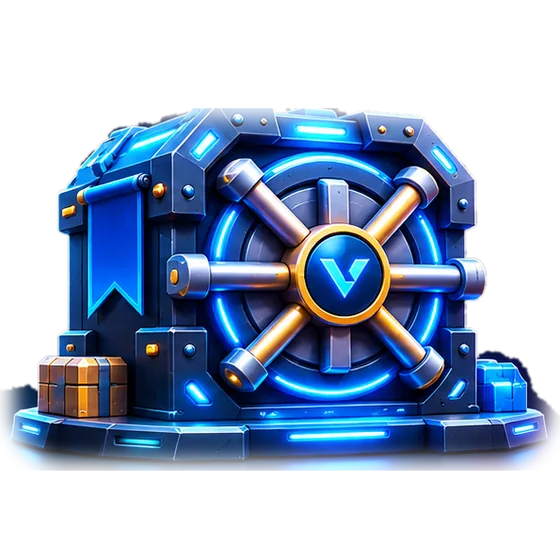
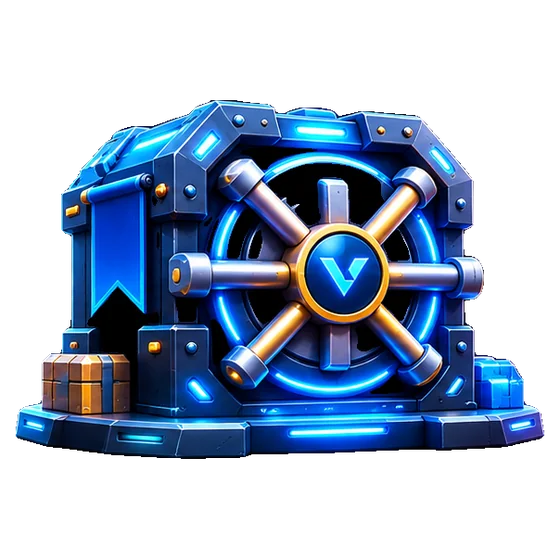
Clean vault cut-outs, light mode toggle, NEAR stack section, phone layouts that fit
- Vault art re-cut with a segmentation model (rembg isnet) plus hole filling: clean edges on
  black, colour and white
- Light/dark toggle (dark by default, remembered, applied before first paint) on the landing page
  and in the game; light palette is the graphite scale inverted, with a darker gold for money
- Landing: 'Every coin moves on NEAR' section listing the NEAR technology used; vault cards become a
  2x2 grid under Veyra on phones; the move ladder and the money flow fit a 320px screen
- Lobby vault cards fit phones; no element scrolls sideways at 320, 390, 600, 1024 or 1440px

Claude-Session: https://claude.ai/code/session_018sJarviuXH1cTFCCWjzHtd

Changed region(s): [[0.0, 0.1518, 1.0, 0.85]]

diff --git a/apps/web/src/game/game.css b/apps/web/src/game/game.css
@@ -184,14 +184,19 @@
   .arena-top .near-badge .label-long { display: none; }
   .feature { grid-template-columns: 1fr; text-align: left; padding: var(--s-5); }
   .feature .emblem { width: 140px; height: 140px; justify-self: center; order: -1; }
-  .vault-row { grid-template-columns: repeat(5, 76%); }
+  .vault-row { grid-template-columns: repeat(2, minmax(0, 1fr)); overflow: visible; gap: var(--s-3); }
+  .vault-row > :first-child { grid-column: 1 / -1; }
+  .vault-card { min-height: 0; padding: var(--s-3); }
+  .vault-card .art { height: 120px; }
+  .vault-card .art .vault-art { width: 120px !important; height: 120px !important; }
+  .vault-card .tag { display: none; }
   .panel { padding: var(--s-4); border-radius: 22px; }
   .stage { padding: var(--s-4); }
   .shield-row { grid-template-columns: repeat(2, minmax(0, 1fr)); }
   .faceoff .emblem, .faceoff .avatar { width: 104px; height: 104px; }
   .podium { grid-template-columns: 1fr; }
   .podium .step.first { order: -1; }
-  .arena-bottom { display: grid; grid-template-columns: repeat(4, 1fr); position: fixed; left: 0; right: 0; bottom: 0; z-index: var(--z-nav); height: calc(var(--bottom-nav) + env(safe-area-inset-bottom)); padding-bottom: env(safe-area-inset-bottom); background: rgb(14 14 16 / 0.94); backdrop-filter: blur(12px); border-top: 1px solid var(--line); }
+  .arena-bottom { display: grid; grid-template-columns: repeat(4, 1fr); position: fixed; left: 0; right: 0; bottom: 0; z-index: var(--z-nav); height: calc(var(--bottom-nav) + env(safe-area-inset-bottom)); padding-bottom: env(safe-area-inset-bottom); background: color-mix(in srgb, var(--bg) 94%, transparent); backdrop-filter: blur(12px); border-top: 1px solid var(--line); }
   .arena-bottom a { display: flex; flex-direction: column; align-items: center; justify-content: center; gap: 3px; color: var(--fg-3); text-decoration: none; font-size: 11px; min-height: var(--bottom-nav); }
   .arena-bottom a[aria-current="page"] { color: var(--fg); }
   .arena-bottom a[aria-current="page"] svg { color: var(--gold); }
@@ -443,7 +448,7 @@ button.explain.shield-explain:hover .shield-token { border-color: var(--line-2);
   .next-step { padding: 8px; gap: var(--s-2); }
   .sheet { top: auto; left: 0; right: 0; bottom: 0; width: 100%; max-height: 92dvh; border-radius: 26px 26px 0 0; padding: var(--s-5) var(--s-4) calc(var(--s-5) + env(safe-area-inset-bottom)); animation-name: slideup; }
   @keyframes slideup { from { transform: translateY(32px); opacity: 0; } }
-  .run-dock { position: sticky; bottom: calc(var(--bottom-nav) + env(safe-area-inset-bottom) + 8px); z-index: var(--z-dock); margin-left: calc(-1 * var(--s-2)); margin-right: calc(-1 * var(--s-2)); padding: var(--s-2); border-radius: 22px; background: rgb(14 14 16 / 0.94); backdrop-filter: blur(10px); border: 1px solid var(--line); flex-wrap: nowrap; }
+  .run-dock { position: sticky; bottom: calc(var(--bottom-nav) + env(safe-area-inset-bottom) + 8px); z-index: var(--z-dock); margin-left: calc(-1 * var(--s-2)); margin-right: calc(-1 * var(--s-2)); padding: var(--s-2); border-radius: 22px; background: color-mix(in srgb, var(--bg) 94%, transparent); backdrop-filter: blur(10px); border: 1px solid var(--line); flex-wrap: nowrap; }
   .run-dock .btn { flex: 1 1 0; min-height: 52px; font-size: var(--fs-md); padding: 0 var(--s-3); }
   .run-dock > button.explain, .run-dock > * { flex: 1 1 0; }
   .shield-grid.wide { grid-template-columns: repeat(2, minmax(0, 1fr)); }
@@ -458,3 +463,49 @@ button.explain.shield-explain:hover .shield-token { border-color: var(--line-2);
 .vault-art img { width: 100%; height: 100%; object-fit: contain; display: block; user-select: none; }
 .vault-art.is-cracked img { filter: saturate(0.55) brightness(0.8); }
 .crack-stamp { position: absolute; left: 50%; top: 50%; transform: translate(-50%, -50%) rotate(-10deg); padding: 0.2em 0.7em; border: 2px solid var(--gold); border-radius: 10px; color: var(--gold); background: rgb(14 14 16 / 0.75); font-family: var(--mono); font-size: 11px; font-weight: 700; letter-spacing: 0.12em; text-transform: uppercase; white-space: nowrap; }
+
+/* ==========================================================================================
+   Light mode: the same graphite scale, inverted. Gold darkens so money stays readable on white.
+   ========================================================================================== */
+:root[data-theme="light"] .arena, :root[data-theme="light"] .arena-portal {
+  color-scheme: light;
+  --bg: #f2f2f5; --bg-2: #ffffff; --bg-3: #e9e9ee; --fg: #0e0e10; --fg-2: #232327; --fg-3: #55555f; --fg-4: #9a9aa6;
+  --line: #e2e2e8; --line-2: #c9c9d2; --accent: #0e0e10; --accent-ink: #f2f2f5;
+  --good: #15803d; --warn: #b45309; --bad: #dc2626; --gold: #8a5d00;
+  --panel: #ffffff;
+  --elev-1: 0 8px 24px -12px rgb(14 14 16 / 0.18); --elev-2: 0 24px 60px -24px rgb(14 14 16 / 0.22); --elev-3: 0 40px 120px -30px rgb(14 14 16 / 0.3);
+  --focus: 0 0 0 2px var(--bg), 0 0 0 4px var(--accent);
+}
+:root[data-theme="light"] .arena ::selection { background: rgb(14 14 16 / 0.15); }
+:root[data-theme="light"] .btn.gold { background: #f5c451; border-color: #f5c451; color: #1a1407; }
+:root[data-theme="light"] .shield-token.on { color: var(--fg); border-color: color-mix(in srgb, var(--tone-a) 70%, var(--line-2)); background: color-mix(in srgb, var(--tone-a) 14%, transparent); }
+:root[data-theme="light"] .panel, :root[data-theme="light"] .vault-card, :root[data-theme="light"] .tile-stat { box-shadow: 0 1px 2px rgb(14 14 16 / 0.04); }
+:root[data-theme="light"] .chip.gold, :root[data-theme="light"] .pill.gold { background: rgb(245 196 81 / 0.25); border-color: rgb(138 93 0 / 0.35); }
+:root[data-theme="light"] .verdict.won { background: rgb(245 196 81 / 0.22); }
+:root[data-theme="light"] .sheet-overlay { background: rgb(14 14 16 / 0.35); }
+:root[data-theme="light"] .tip { background: var(--fg); color: var(--bg); }
+:root[data-theme="light"] .flow .edge.gold { stroke: var(--gold); }
+
+/* the money flow as stacked cards on narrow screens, so nothing scrolls sideways */
+.flow-list { display: none; }
+@media (max-width: 640px) {
+  .flow svg { display: none; }
+  .flow { overflow: visible; }
+  .flow-list { display: grid; gap: var(--s-2); list-style: none; margin: 0; padding: 0; }
+  .flow-list li { padding: var(--s-3) var(--s-4); border-radius: 16px; background: var(--bg-3); font-size: var(--fs-sm); color: var(--fg-2); }
+  .flow-list li b { color: var(--fg); }
+  .flow-list li.strong { background: var(--fg); color: var(--bg); }
+  .flow-list li.strong b { color: var(--bg); }
+  .flow-list li.win { border: 1.5px dashed var(--gold); background: transparent; }
+  .flow-list .split { display: grid; grid-template-columns: repeat(3, minmax(0, 1fr)); gap: var(--s-2); padding: 0; background: none; }
+  .flow-list .split span { padding: var(--s-3) var(--s-2); border-radius: 14px; background: var(--bg-3); text-align: center; font-size: var(--fs-xs); }
+  .flow-list .split b { display: block; font-size: var(--fs-lg); font-family: var(--mono); }
+  .flow-list .arrow { padding: 0; background: none; text-align: center; color: var(--fg-3); line-height: 1; }
+}
+@media (max-width: 380px) {
+  .arena .history th, .arena .history td { padding-left: 6px; padding-right: 6px; font-size: var(--fs-xs); }
+}
+:root[data-theme="light"] .beat.blocked .who, :root[data-theme="light"] .beat.blocked { color: var(--fg); }
+:root[data-theme="light"] .beat.blocked { border-color: color-mix(in srgb, var(--tone-a) 60%, var(--line-2)); background: color-mix(in srgb, var(--tone-a) 12%, var(--bg-2)); }
+:root[data-theme="light"] .chip { background: var(--bg-3); border-color: var(--line); color: var(--fg-2); }
+:root[data-theme="light"] .chip.next { color: var(--fg); border-color: var(--line-2); background: var(--bg-2); }

diff --git a/apps/web/src/pages/landing.css b/apps/web/src/pages/landing.css
@@ -1,7 +1,7 @@
 /* The landing page, in the arena's art direction: dark steel, one lit vault, gold for money. */
 .lp { overflow-x: clip; }
 .lp a { color: inherit; }
-.lp-nav { position: sticky; top: 0; z-index: 20; display: flex; align-items: center; justify-content: space-between; gap: var(--s-4); padding: var(--s-3) var(--gutter); min-height: 68px; background: rgb(14 14 16 / 0.88); backdrop-filter: blur(12px); border-bottom: 1px solid rgb(255 255 255 / 0.04); }
+.lp-nav { position: sticky; top: 0; z-index: 20; display: flex; align-items: center; justify-content: space-between; gap: var(--s-4); padding: var(--s-3) var(--gutter); min-height: 68px; background: color-mix(in srgb, var(--bg) 88%, transparent); backdrop-filter: blur(12px); border-bottom: 1px solid rgb(255 255 255 / 0.04); }
 .lp-nav .wordmark { color: var(--fg); text-decoration: none; display: inline-flex; align-items: center; gap: 8px; }
 .lp-links { display: flex; gap: var(--s-6); font-size: var(--fs-sm); }
 .lp-links a { color: var(--fg-3); text-decoration: none; min-height: var(--tap); display: inline-flex; align-items: center; }
@@ -84,7 +84,7 @@
 .lp-proof li { display: inline-flex; align-items: center; gap: 6px; }
 .lp-proof svg { color: var(--good); }
 .lp-floaters { position: absolute; inset: 0; pointer-events: none; }
-.lp-float { position: absolute; display: grid; place-items: center; width: 116px; height: 116px; border-radius: 28px; background: #161619; border: 1px solid var(--line-2); box-shadow: 0 30px 60px -30px rgb(0 0 0 / 0.9); animation: bob 6s ease-in-out infinite; }
+.lp-float { position: absolute; display: grid; place-items: center; width: 116px; height: 116px; border-radius: 28px; background: var(--bg-2); border: 1px solid var(--line-2); box-shadow: 0 30px 60px -30px rgb(0 0 0 / 0.9); animation: bob 6s ease-in-out infinite; }
 .lp-float.f1 { left: 4%; top: 22%; transform: rotate(-8deg); }
 .lp-float.f2 { right: 6%; top: 14%; transform: rotate(7deg); animation-delay: -1.5s; }
 .lp-float.f3 { left: 10%; bottom: 8%; transform: rotate(6deg); animation-delay: -3s; }
@@ -118,11 +118,11 @@
 .lp-tile p { font-size: var(--fs-sm); max-width: 30ch; }
 .lp-tile .vault-art { position: absolute; right: -18px; bottom: -22px; }
 .lp-chip { align-self: flex-start; padding: 3px 10px; border-radius: 8px; border: 1.5px solid currentColor; font-size: 12px; font-weight: 600; margin-bottom: var(--s-3); }
-.lp-tile.dark { background: #161619; border: 1px solid var(--line); color: var(--fg); }
-.lp-tile.dark p { color: var(--fg-3); }
+.lp-tile.dark { background: #161619; border: 1px solid #232327; color: #f2f2f5; }
+.lp-tile.dark p { color: #9a9aa6; }
 .lp-tile.light { background: #e9e9ee; color: #0e0e10; }
 .lp-tile.light p { color: #3e3e45; }
-.lp-tile.gold { background: var(--gold); color: #0e0e10; }
+.lp-tile.gold { background: #f5c451; color: #0e0e10; }
 .lp-tile.gold p { color: #3a2f12; }
 
 @media (max-width: 1100px) {
@@ -138,13 +138,50 @@
   .lp-tile .vault-art { width: 150px !important; height: 150px !important; right: -6px; bottom: -14px; }
   .lp-bento { grid-template-columns: 1fr; }
   .lp-tile { min-height: 240px; }
-  .lp-fan { justify-content: flex-start; overflow-x: auto; scroll-snap-type: x mandatory; padding-bottom: var(--s-4); gap: var(--s-3); scrollbar-width: none; }
-  .lp-card, .lp-card.pos2 { flex: 0 0 72%; margin: 0; transform: none; scroll-snap-align: center; }
-  .lp-card a, .lp-card.pos2 a { height: 300px; }
-  .lp-card .vault-art, .lp-card.pos2 .vault-art { width: 190px !important; height: 190px !important; }
-  .lp-card.pos2 { order: -1; }
+  /* phones and tablets: Veyra on top, the other four in a 2 by 2 grid. Nothing scrolls sideways. */
+  .lp-fan { display: grid; grid-template-columns: repeat(2, minmax(0, 1fr)); gap: var(--s-3); padding-top: var(--s-4); }
+  .lp-card, .lp-card.pos2 { margin: 0; transform: none !important; }
+  .lp-card.pos2 { grid-column: 1 / -1; order: -1; }
+  .lp-card a, .lp-card.pos2 a { height: auto; aspect-ratio: 4 / 5; padding: var(--s-3); border-radius: 24px; }
+  .lp-card.pos2 a { aspect-ratio: 16 / 10; }
+  .lp-card .vault-art { width: 82% !important; height: auto !important; aspect-ratio: 1; margin-bottom: -10%; }
+  .lp-card.pos2 .vault-art { width: 52% !important; margin-bottom: -6%; }
+  .lp-card-top b { font-size: var(--fs-md); }
+  .lp-card.pos2 .lp-card-top b { font-size: var(--fs-xl); }
+  .lp-badge { font-size: 11px; padding: 3px 8px; }
 }
 @media (max-width: 520px) {
   .lp-hero .cta-row .btn { flex: 1 1 100%; justify-content: center; }
 }
 @media (prefers-reduced-motion: reduce) { .lp-float { animation: none; } }
+
+.lp-nav-end { display: flex; align-items: center; gap: var(--s-2); }
+:root[data-theme="light"] .lp-tile.light { background: #ffffff; border: 1px solid var(--line-2); }
+:root[data-theme="light"] .lp-hero h1 span { color: #b07d0b; }
+
+/* NEAR stack */
+.lp-near { display: grid; grid-template-columns: repeat(4, minmax(0, 1fr)); gap: var(--s-3); }
+.lp-near-item { display: grid; align-content: start; gap: 6px; padding: var(--s-5); border-radius: 22px; background: var(--panel); border: 1px solid var(--line); text-decoration: none; min-width: 0; transition: border-color var(--t-med), transform var(--t-med) var(--ease); }
+.lp-near-item:hover { border-color: var(--line-2); transform: translateY(-2px); }
+.lp-near-k { font-size: 11px; text-transform: uppercase; letter-spacing: 0.08em; color: var(--fg-3); }
+.lp-near-item b { font-size: var(--fs-lg); letter-spacing: -0.02em; overflow-wrap: anywhere; }
+.lp-near-item > span:last-child { font-size: var(--fs-sm); color: var(--fg-3); line-height: 1.5; }
+.lp-head .lp-tag { margin-bottom: var(--s-3); }
+
+/* the move ladder fits a phone: short marks instead of words */
+.lp-ladder .short { display: none; }
+@media (max-width: 1100px) { .lp-near { grid-template-columns: repeat(2, minmax(0, 1fr)); } }
+@media (max-width: 640px) {
+  .lp-ladder { overflow: visible; }
+  .lp-ladder table { table-layout: fixed; width: 100%; }
+  .lp-ladder td:first-child, .lp-ladder th:first-child { min-width: 0; width: 42%; }
+  .lp-ladder td:first-child .small { display: none; }
+  .lp-ladder .full { display: none; }
+  .lp-ladder .short { display: inline; }
+  .lp-ladder td, .lp-ladder th { padding-left: 4px; padding-right: 4px; text-align: center; }
+  .lp-ladder td:first-child, .lp-ladder th:first-child { text-align: left; }
+  .lp-ladder .pill { padding: 2px 8px; }
+  .lp-near { grid-template-columns: 1fr; }
+  .lp-steps li { padding: var(--s-4); }
+  .lp-fair { padding: var(--s-5); }
+}

diff --git a/apps/web/src/pages/Landing.tsx b/apps/web/src/pages/Landing.tsx
@@ -5,12 +5,25 @@ import { ArrowRight01Icon, ArrowUpRight01Icon, CheckmarkCircle02Icon, Github01Ic
 import { api } from "../api";
 import { Icon, Mark, Wordmark } from "../brand";
 import { useSession } from "../shell/session";
+import { ThemeToggle } from "../theme";
 import { MoneyFlow, NearMark, PoweredByNear, RogueAvatar, ShieldToken, TONES, VaultEmblem } from "../game/art";
 import { ALL_SHIELDS, nearNum, type Lobby, type Run } from "../game/heist-api";
 import "../game/game.css";
 import "./landing.css";
 
 const REPO = "https://github.com/davebrian259-tech/veyra-";
+
+/** The NEAR technology behind the game and the agent, each with where it lives. */
+const NEAR_STACK: { k: string; t: string; d: string; href?: string }[] = [
+  { k: "Smart contract", t: "veyra-heist", d: "Holds every pot, takes entries and pays winners. Live on NEAR testnet.", href: "https://testnet.nearblocks.io/address/veyra-heist-mwdwy8zz.testnet" },
+  { k: "Wallets", t: "NEAR Wallet Selector", d: "Play ranked with Meteor, MyNearWallet or HERE. Your keys never leave your wallet." },
+  { k: "Fair play", t: "Commit, then settle", d: "Each entry commits a SHA-256 of your agent. The result's hash is written on-chain." },
+  { k: "Payments", t: "x402 and NEP-366", d: "Veyra pays agents with signed delegate actions that clear only on delivery." },
+  { k: "Marketplace", t: "NEAR AI Agent Market", d: "Where Veyra hires specialist agents, and where other agents hire Veyra." },
+  { k: "Private AI", t: "NEAR AI Cloud", d: "Veyra plans in confidential compute, with the hardware attestation checked." },
+  { k: "Owner limits", t: "NEP-413 mandate", d: "The owner signs Veyra's spending limits once, with a NEAR wallet." },
+  { k: "Proof", t: "veyra-ledger", d: "Every receipt anchored as a Merkle root, plus on-chain fraud reports from Watchtower.", href: "https://testnet.nearblocks.io/address/veyra-mwcxvovz.testnet" },
+];
 
 /** Which move cracks which vault. Verified by the referee's tests on every build. */
 const LADDER: { move: string; what: string; cracks: number[]; stoppedBy?: string }[] = [
@@ -57,10 +70,11 @@ export default function Landing() {
             <a href="#how">How it works</a>
             <a href="#vaults">Vaults</a>
             <a href="#economy">Economy</a>
+            <a href="#near">NEAR</a>
             <a href="#fair">Fair play</a>
             <a href={REPO} target="_blank" rel="noreferrer">GitHub</a>
           </div>
-          <Link className="btn primary" to="/play">Play free</Link>
+          <div className="lp-nav-end"><ThemeToggle /><Link className="btn primary" to="/play">Play free</Link></div>
         </nav>
 
         <header className="lp-hero">
@@ -119,6 +133,23 @@ export default function Landing() {
           </Link>
         </section>
 
+        <section id="near" className="lp-section">
+          <div className="lp-head">
+            <p className="lp-tag"><NearMark size={12} /> Built on NEAR</p>
+            <h2>Every coin moves on NEAR.</h2>
+            <p>The game, the pots and the agent behind them run on NEAR's stack, from the contract that holds your winnings to the market where Veyra hires.</p>
+          </div>
+          <div className="lp-near">
+            {NEAR_STACK.map((n) => (
+              <a key={n.t} className="lp-near-item" href={n.href ?? REPO} target="_blank" rel="noreferrer">
+                <span className="lp-near-k">{n.k}</span>
+                <b>{n.t}</b>
+                <span>{n.d}</span>
+              </a>
+            ))}
+          </div>
+        </section>
+
         <section id="how" className="lp-section">
           <div className="lp-head">
             <h2>One heist, three moves.</h2>
@@ -163,7 +194,7 @@ export default function Landing() {
                 {LADDER.map((m) => (
                   <tr key={m.move}>
                     <td><b>{m.move}</b><span className="small muted"> {m.what}</span></td>
-                    {[1, 2, 3, 4, 5].map((n) => <td key={n} className="num">{m.cracks.includes(n) ? <span className="pill gold">cracked</span> : <span className="small muted">{m.stoppedBy}</span>}</td>)}
+                    {[1, 2, 3, 4, 5].map((n) => <td key={n} className="num">{m.cracks.includes(n) ? <span className="pill gold" aria-label="cracked"><span className="full">cracked</span><span className="short" aria-hidden="true">✓</span></span> : <span className="small muted" aria-label={`stopped by ${m.stoppedBy}`}><span className="full">{m.stoppedBy}</span><span className="short" aria-hidden="true">✕</span></span>}</td>)}
                   </tr>
                 ))}
               </tbody>

diff --git a/apps/web/src/game/art.tsx b/apps/web/src/game/art.tsx
@@ -14,7 +14,7 @@ export const TONES: Record<Tone, { a: string; b: string; glow: string }> = {
 export function VaultEmblem({ id, size = 160, cracked, eager }: { id: number; tone?: Tone; shields?: number; size?: number; cracked?: boolean; eager?: boolean }) {
   return (
     <span className={`emblem vault-art ${cracked ? "is-cracked" : ""}`} style={{ width: size, height: size }} aria-hidden="true">
-      <img src={size > 140 ? `/vaults/vault-${id}.webp` : `/vaults/vault-${id}-sm.webp`} srcSet={`/vaults/vault-${id}-sm.webp 240w, /vaults/vault-${id}.webp 560w`} sizes={`${size}px`} width={size} height={size} alt="" loading={eager ? "eager" : "lazy"} decoding="async" draggable={false} />
+      <img src={size > 140 ? `/vaults/vault-${id}.webp?v=2` : `/vaults/vault-${id}-sm.webp?v=2`} srcSet={`/vaults/vault-${id}-sm.webp?v=2 240w, /vaults/vault-${id}.webp?v=2 560w`} sizes={`${size}px`} width={size} height={size} alt="" loading={eager ? "eager" : "lazy"} decoding="async" draggable={false} />
       {cracked && <span className="crack-stamp">Cracked</span>}
     </span>
   );
@@ -117,6 +117,15 @@ export function MoneyFlow() {
         <path d="M300 182 C230 250 120 250 80 186" className="edge gold" markerEnd="url(#ahg)" />
         <text x="190" y="262" className="lbl gold">you crack it: pot + your fee</text>
       </svg>
+      <ol className="flow-list">
+        <li><b>You</b> pay the entry fee</li>
+        <li className="arrow">↓</li>
+        <li className="strong"><b>Heist contract</b> holds every pot</li>
+        <li className="arrow">↓</li>
+        <li className="win"><b>You crack it:</b> the whole pot and your fee come back to you</li>
+        <li className="arrow">or the vault holds, and your fee splits</li>
+        <li className="split"><span><b>70%</b>pot</span><span><b>20%</b>backers</span><span><b>10%</b>house</span></li>
+      </ol>
     </figure>
   );
 }

diff --git a/apps/web/index.html b/apps/web/index.html
@@ -3,14 +3,15 @@
   <head>
     <meta charset="UTF-8" />
     <meta name="viewport" content="width=device-width, initial-scale=1.0, viewport-fit=cover" />
-    <title>Veyra · autonomous contractor on NEAR</title>
-    <meta name="description" content="Veyra hires agents on the NEAR AI Agent Market, pays only for verified work, and proves every payment on NEAR." />
-    <meta property="og:title" content="Veyra" />
-    <meta property="og:description" content="Hires agents. Pays on delivery. Proves it on NEAR." />
+    <title>Veyra Heist · rob an AI agent on NEAR</title>
+    <meta name="description" content="Build a rogue agent and rob Veyra, an AI that pays other agents for work. Five vaults, real pots on NEAR, free to practise." />
+    <meta property="og:title" content="Veyra Heist" />
+    <meta property="og:description" content="Veyra holds the pot. Take it." />
     <meta property="og:type" content="website" />
     <link rel="icon" type="image/svg+xml" href="/favicon.svg" />
-    <meta name="theme-color" content="#ffffff" media="(prefers-color-scheme: light)" />
-    <meta name="theme-color" content="#0a0a0a" media="(prefers-color-scheme: dark)" />
+    <meta name="theme-color" content="#0e0e10" />
+    <!-- Apply the saved theme before first paint (dark unless the visitor chose light). -->
+    <script>try { document.documentElement.setAttribute("data-theme", localStorage.getItem("veyra.theme") === "light" ? "light" : "dark"); } catch (e) { document.documentElement.setAttribute("data-theme", "dark"); }</script>
     <!-- Some wallet SDKs expect Node globals. -->
     <script>window.process = window.process || { env: {}, browser: true, version: "" };</script>
   </head>

diff --git a/apps/web/src/theme.tsx b/apps/web/src/theme.tsx
@@ -1,0 +1,35 @@
+import { useEffect, useState } from "react";
+import { Moon02Icon, Sun03Icon } from "@hugeicons/core-free-icons";
+import { Icon } from "./brand";
+
+/** Light or dark, for the whole site. Dark is the default; the choice is remembered. */
+export type Theme = "dark" | "light";
+const KEY = "veyra.theme";
+
+export const currentTheme = (): Theme => (document.documentElement.getAttribute("data-theme") === "light" ? "light" : "dark");
+
+export function setTheme(t: Theme) {
+  document.documentElement.setAttribute("data-theme", t);
+  document.querySelector('meta[name="theme-color"]')?.setAttribute("content", t === "light" ? "#f2f2f5" : "#0e0e10");
+  try { localStorage.setItem(KEY, t); } catch { /* storage blocked */ }
+}
+
+export function useTheme(): [Theme, (t: Theme) => void] {
+  const [t, setT] = useState<Theme>(currentTheme);
+  useEffect(() => {
+    const mo = new MutationObserver(() => setT(currentTheme()));
+    mo.observe(document.documentElement, { attributes: true, attributeFilter: ["data-theme"] });
+    return () => mo.disconnect();
+  }, []);
+  return [t, setTheme];
+}
+
+export function ThemeToggle({ className }: { className?: string }) {
+  const [t, set] = useTheme();
+  const next = t === "dark" ? "light" : "dark";
+  return (
+    <button type="button" className={`btn ghost sm icon theme-toggle ${className ?? ""}`} onClick={() => set(next)} aria-label={`Switch to ${next} mode`} title={`Switch to ${next} mode`}>
+      <Icon icon={t === "dark" ? Sun03Icon : Moon02Icon} size={18} />
+    </button>
+  );
+}

diff --git a/apps/web/src/game/GameShell.tsx b/apps/web/src/game/GameShell.tsx
@@ -8,6 +8,7 @@ import {
   Logout01Icon, SafeIcon, Search01Icon, VolumeHighIcon, VolumeOffIcon, Wallet02Icon,
 } from "@hugeicons/core-free-icons";
 import { Icon, Mark } from "../brand";
+import { ThemeToggle } from "../theme";
 import { Button, Skeleton } from "../ui";
 import { PoweredByNear } from "./art";
 import { FAUCET_URL } from "./errors";
@@ -51,14 +52,6 @@ function Shell() {
   const [params] = useSearchParams();
   const [palette, setPalette] = useState(false);
   const [help, setHelp] = useState(false);
-
-  // The arena is a dark room: toasts, sheets and popovers rendered outside it follow suit.
-  useEffect(() => {
-    const el = document.documentElement;
-    const before = el.getAttribute("data-theme");
-    el.setAttribute("data-theme", "dark");
-    return () => { if (before) el.setAttribute("data-theme", before); else el.removeAttribute("data-theme"); };
-  }, []);
 
   useEffect(() => {
     const onKey = (e: KeyboardEvent) => {
@@ -133,6 +126,7 @@ function TopBar({ onPalette }: { onPalette: () => void }) {
             <Icon icon={sound ? VolumeHighIcon : VolumeOffIcon} size={18} />
           </button>
         </Tip>
+        <Tip label="Light or dark"><span><ThemeToggle /></span></Tip>
         <Tip label="Jump to anything" keys={["Ctrl", "K"]}>
           <button type="button" className="btn sm palette-btn" onClick={onPalette} data-tour="palette" aria-label="Open the command palette"><Icon icon={Search01Icon} size={16} /><span className="hide-sm">Search</span><Kbd>⌘K</Kbd></button>
         </Tip>

diff --git a/apps/web/src/game/HowToPlay.tsx b/apps/web/src/game/HowToPlay.tsx
@@ -48,14 +48,14 @@ export default function HowToPlay() {
         <h3 className="learn-sub">Fees and pots right now</h3>
         <div className="table-wrap">
           <table className="history">
-            <thead><tr><th>Vault</th><th className="num">Entry fee</th><th className="num">Pot</th><th className="num">Backed</th><th className="num hide-sm">Attempts</th></tr></thead>
+            <thead><tr><th>Vault</th><th className="num">Entry fee</th><th className="num">Pot</th><th className="num hide-sm">Backed</th><th className="num hide-sm">Attempts</th></tr></thead>
             <tbody>
               {vaults.map((v) => (
                 <tr key={v.id}>
                   <td><Link to={`/play/vault/${v.id}`} className="who"><VaultEmblem id={v.id} tone={v.tone} shields={v.shields.length} size={26} />{v.id} · {v.name}</Link></td>
                   <td className="num mono">{v.feeNear} NEAR</td>
                   <td className="num mono gold-ink">{v.chain ? nearNum(v.chain.potYocto).toFixed(2) : "—"}</td>
-                  <td className="num mono">{v.chain ? nearNum(v.chain.stakedYocto).toFixed(2) : "—"}</td>
+                  <td className="num mono hide-sm">{v.chain ? nearNum(v.chain.stakedYocto).toFixed(2) : "—"}</td>
                   <td className="num hide-sm">{v.chain?.attempts ?? 0}</td>
                 </tr>
               ))}
